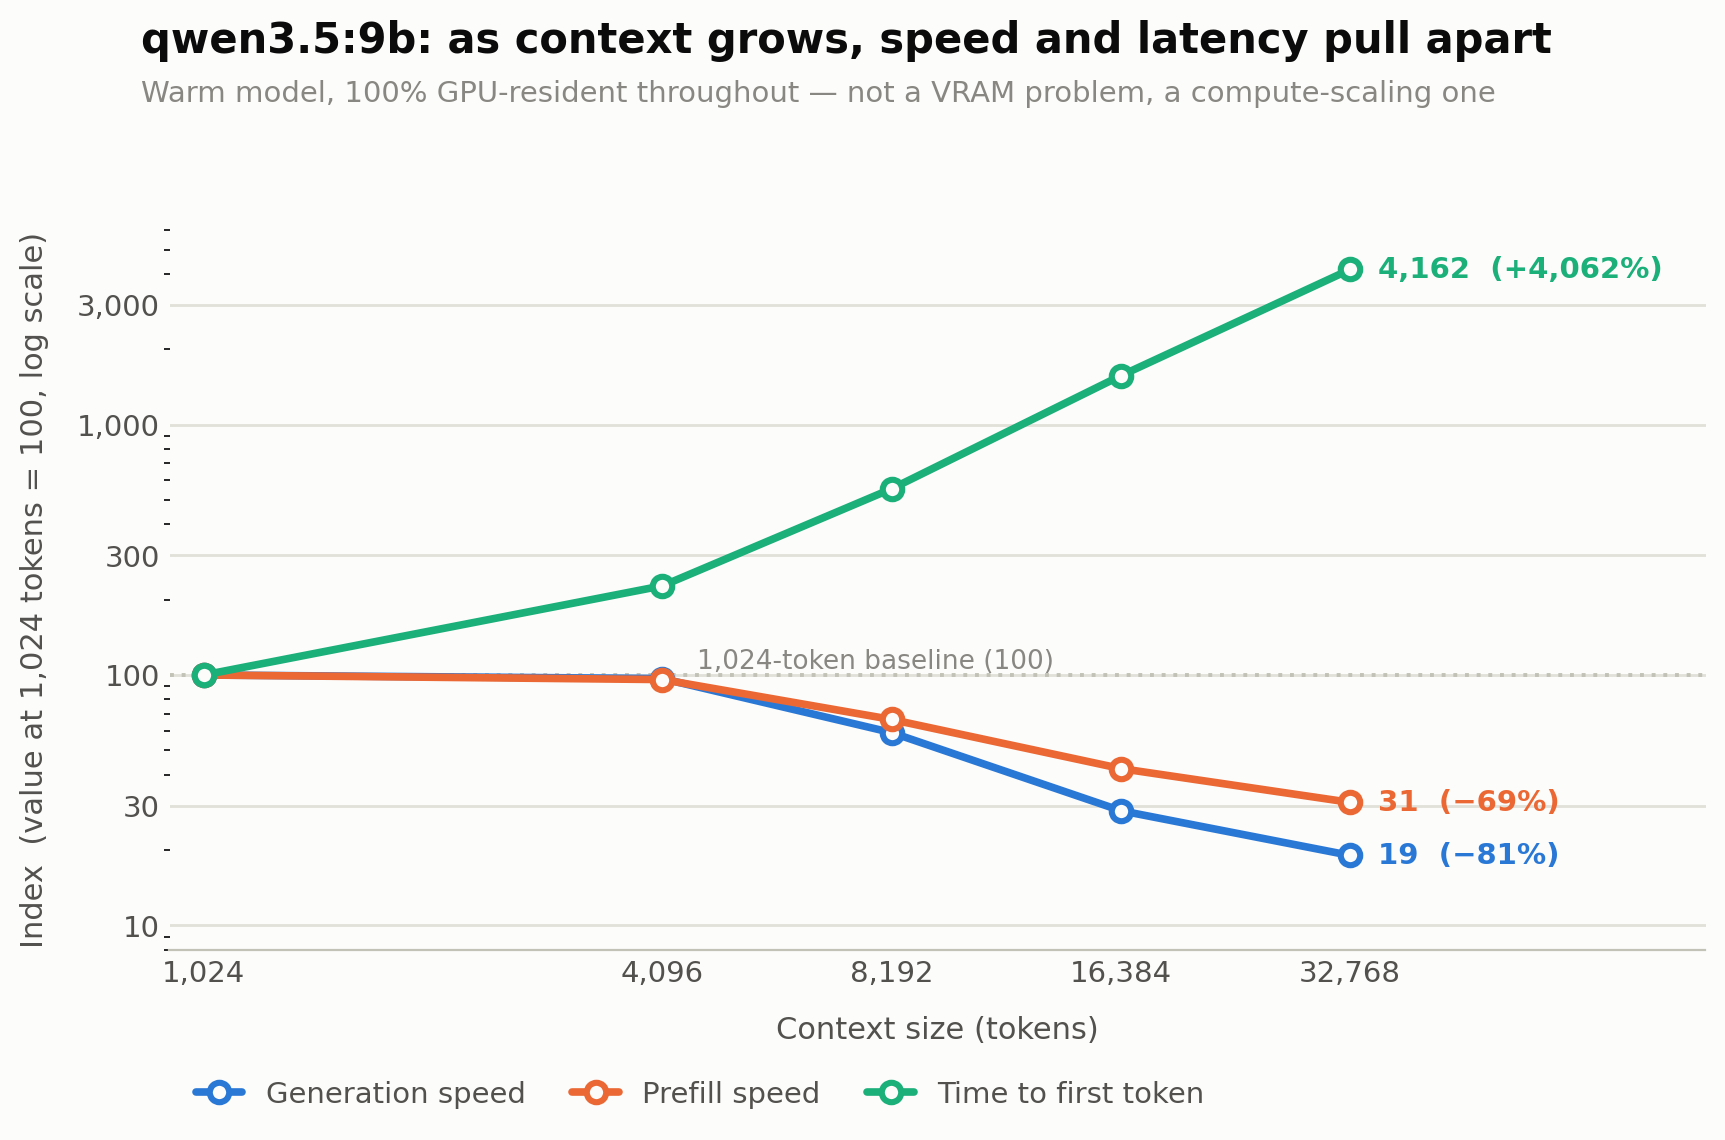
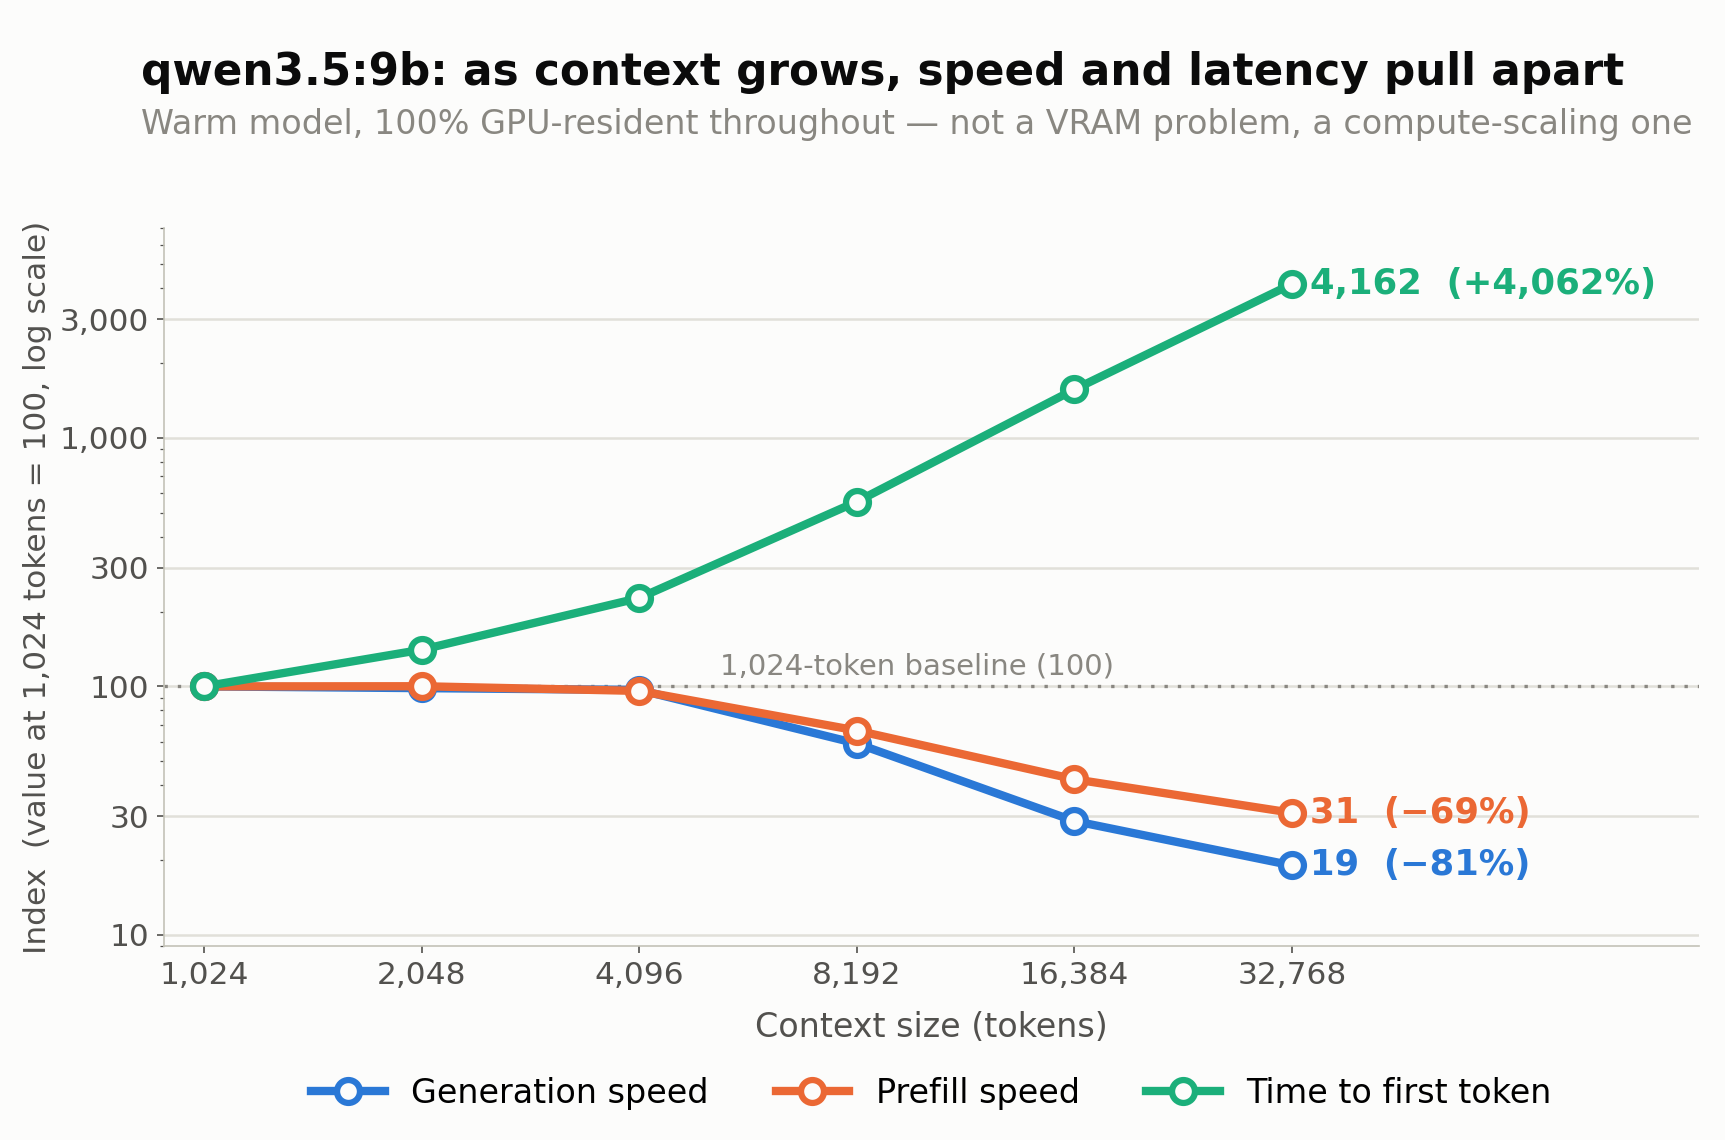
Needle test: add the 2,048-token size the post omitted, to table and chart, and state the real run count (42 runs, 30 unique cells)
Claude-Session: https://claude.ai/code/session_015qH3NJq8ejEF5Faf5C8TC9

diff --git a/content/posts/local-llms-pc-and-pi.md b/content/posts/local-llms-pc-and-pi.md
@@ -177,15 +177,16 @@ So the honest takeaway isn't "use the smallest model for the fastest chat experi
 
 ### How far can you actually push context? A needle in a 32,000-token haystack
 
-The `qwen3.5:9b` tag on Ollama's library advertises a 256K token context window. That number is doing a lot of marketing work, and I wanted an actual measurement instead of taking it on faith — especially after just watching `num_ctx` bite the voice assistant twice above. So I built the standard test for this: bury a single, distinctive fact somewhere inside a much longer block of unrelated filler text, then ask the model to find it. I used an invented "generator override code" (`ZULU-FOXTROT-8841`) that couldn't possibly appear anywhere in the model's training data, planted it at five different positions within the text (right at the start, a quarter of the way through, dead center, three-quarters through, right at the end), and swept the haystack size from roughly 1,000 tokens up to 32,000. Scoring was a simple exact-string check rather than another LLM grading the answer — after already catching my own judge model grading a correct answer wrong earlier in this post, I wasn't about to trust a second model to tell me whether the first one found an exact string.
+The `qwen3.5:9b` tag on Ollama's library advertises a 256K token context window. That number is doing a lot of marketing work, and I wanted an actual measurement instead of taking it on faith — especially after just watching `num_ctx` bite the voice assistant twice above. So I built the standard test for this: bury a single, distinctive fact somewhere inside a much longer block of unrelated filler text, then ask the model to find it. I used an invented "generator override code" (`ZULU-FOXTROT-8841`) that couldn't possibly appear anywhere in the model's training data, planted it at five different positions within the text (right at the start, a quarter of the way through, dead center, three-quarters through, right at the end), and swept the haystack size through six doublings, from roughly 1,000 tokens up to 32,000. Scoring was a simple exact-string check rather than another LLM grading the answer — after already catching my own judge model grading a correct answer wrong earlier in this post, I wasn't about to trust a second model to tell me whether the first one found an exact string.
 
-The headline is almost anticlimactic: **every single test passed.** All 30 combinations of size and position, from 1K tokens to 32K tokens, found the needle every time. If the goal was "prove the 256K claim is fake," this test didn't get there — 32K is still an eighth of the advertised ceiling, and I have no evidence recall would fail anywhere I actually tested.
+The headline is almost anticlimactic: **every single test passed.** All 30 combinations of size and position (six sizes, five positions), from 1K tokens to 32K tokens, found the needle every time, and so did the 12 cells from a shorter first pass over the four smaller sizes. Forty-two runs, zero misses. If the goal was "prove the 256K claim is fake," this test didn't get there — 32K is still an eighth of the advertised ceiling, and I have no evidence recall would fail anywhere I actually tested.
 
 But recall was never really the interesting number, once I looked at what else moved.
 
 | Context size | Prefill speed | Generation speed | Time to first token (warm) |
 |---|---|---|---|
 | 1,024 tokens | ~655 tok/s | ~62 tok/s | ~3.7s |
+| 2,048 tokens | ~656 tok/s | ~61 tok/s | ~5.2s |
 | 4,096 tokens | ~628 tok/s | ~60 tok/s | ~8.4s |
 | 8,192 tokens | ~400–470 tok/s | ~33–40 tok/s | ~19–22s |
 | 16,384 tokens | ~277 tok/s | ~17.8 tok/s | ~58s |
